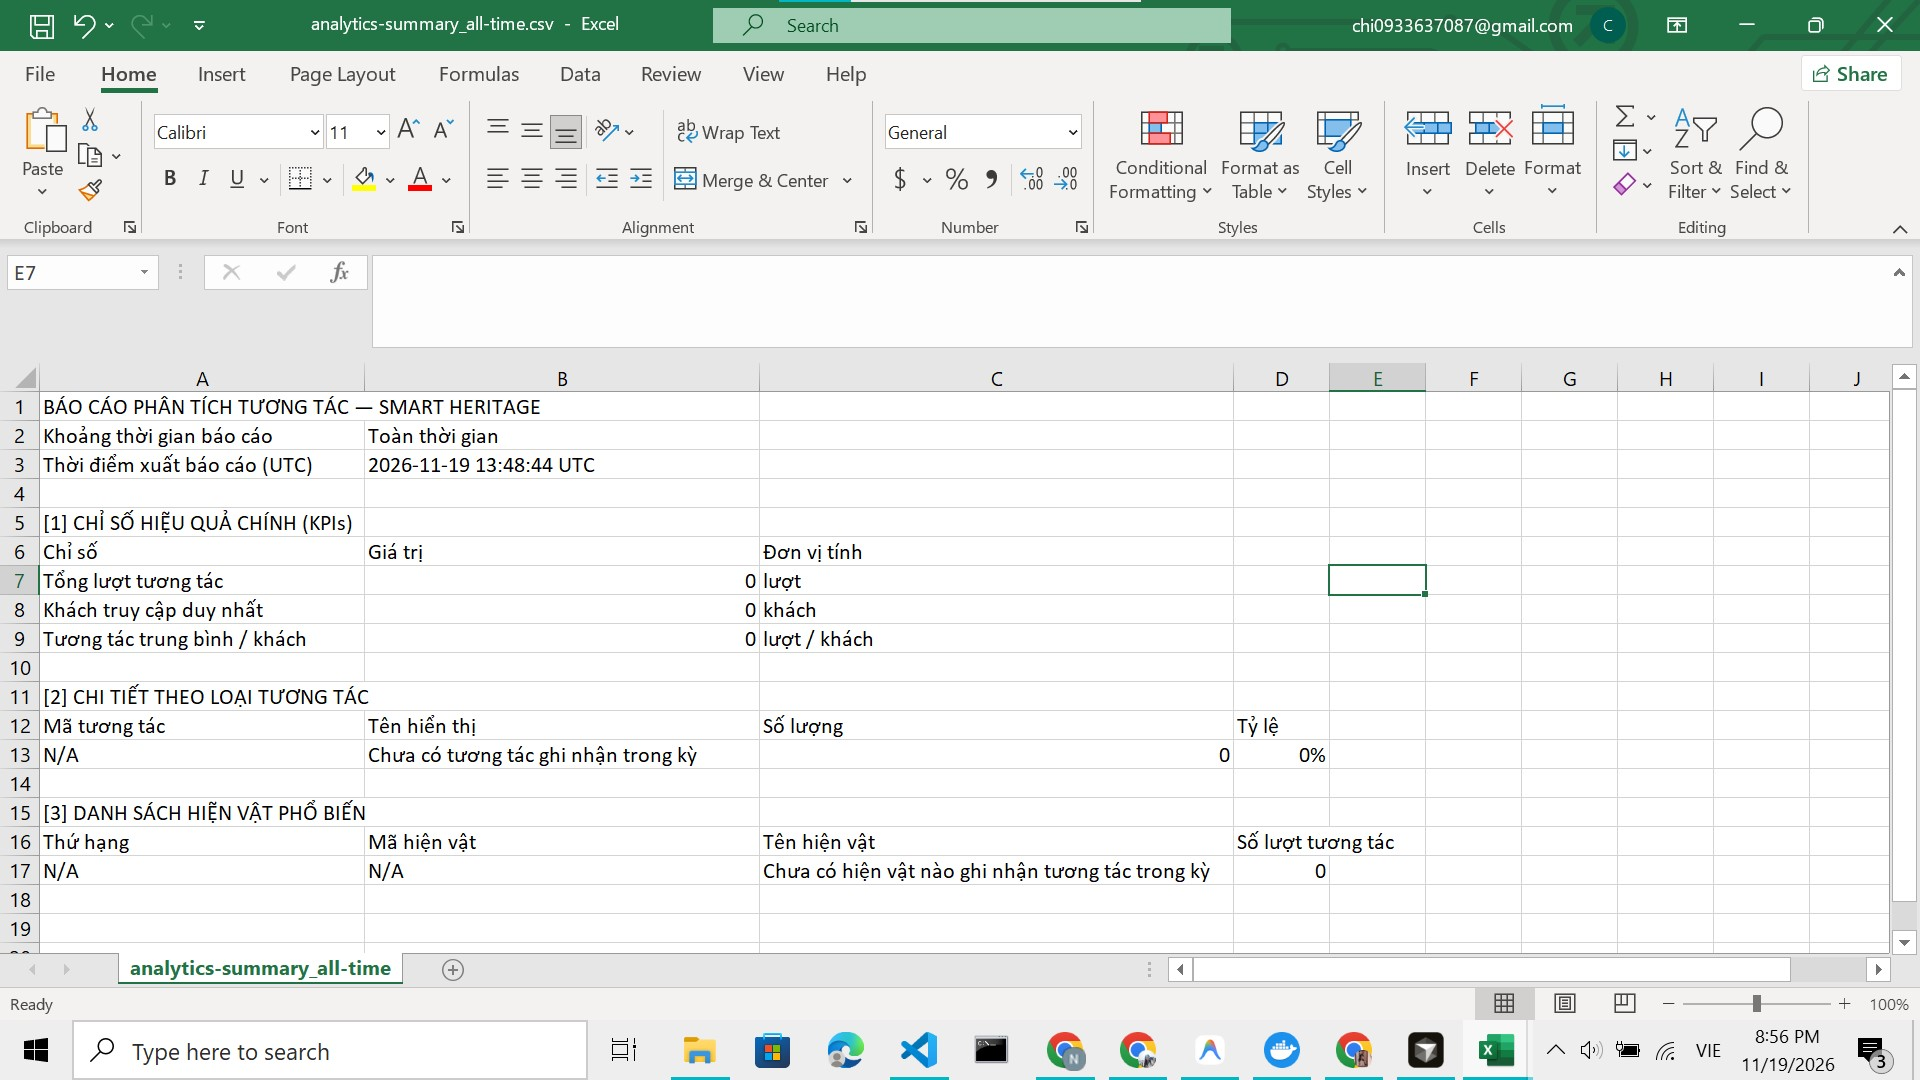
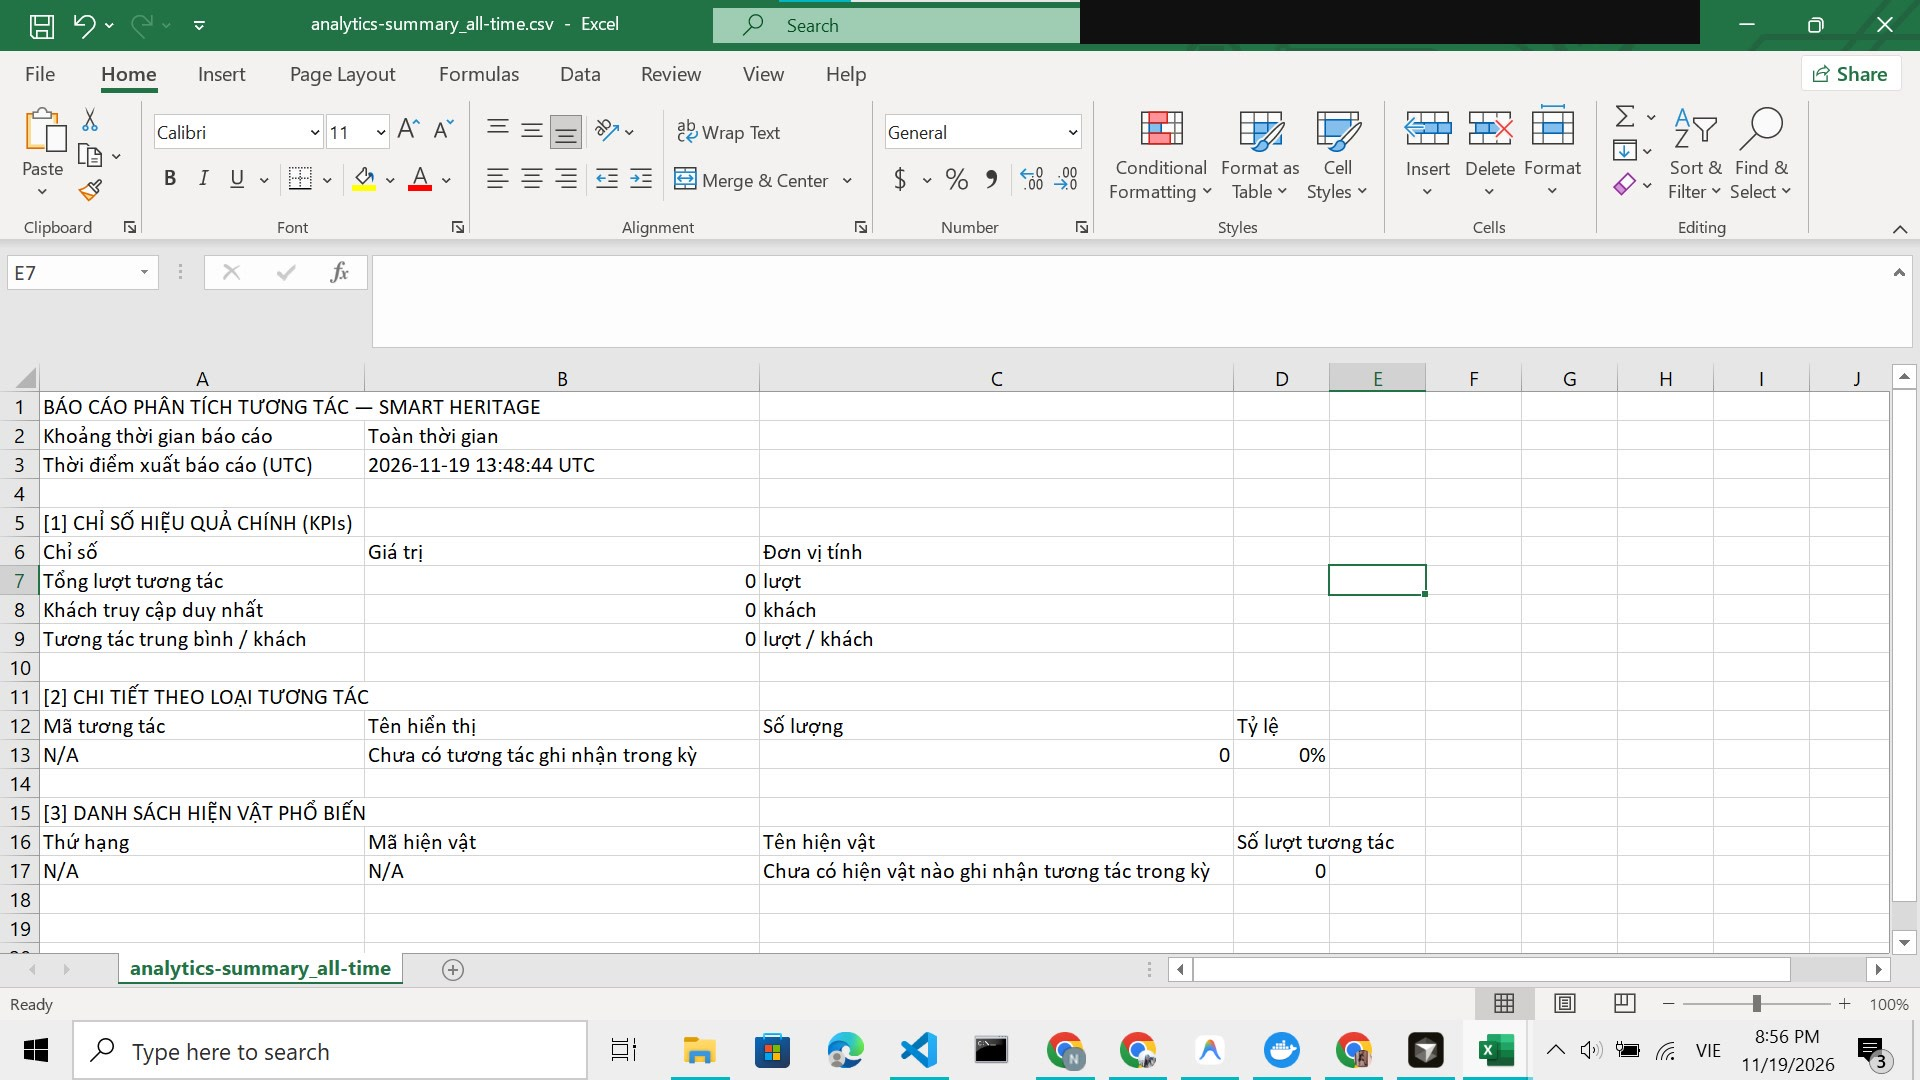
test(analytics): verify CSV Blob export acceptance
Assert BOM bytes, CRLF rows and download filename in the exported Blob. Correct LTJ-75 evidence to scope the Excel screenshot to All Time empty data and mark live/7-30-90-day manual checks as pending. Redact the account email from the screenshot.

Changed region(s): [[0.5625, 0.0, 0.9062, 0.0611]]

diff --git a/frontend/src/utils/__tests__/analyticsCsv.test.ts b/frontend/src/utils/__tests__/analyticsCsv.test.ts
@@ -165,6 +165,47 @@ describe('analyticsCsv utility', () => {
       vi.restoreAllMocks()
     })
 
+
+    it('writes UTF-8 BOM, CRLF rows and the download filename into the Blob', async () => {
+      let createdBlob: Blob | null = null
+      const anchors: HTMLAnchorElement[] = []
+      window.URL.createObjectURL = vi.fn((blob: Blob) => {
+        createdBlob = blob
+        return 'blob:http://localhost/bom-test'
+      })
+      window.URL.revokeObjectURL = vi.fn()
+
+      const originalAppend = document.body.appendChild.bind(document.body)
+      vi.spyOn(document.body, 'appendChild').mockImplementation((node) => {
+        if (node instanceof HTMLAnchorElement) anchors.push(node)
+        return originalAppend(node)
+      })
+      vi.spyOn(document.body, 'removeChild')
+
+      exportAnalyticsSummaryToCsv({
+        from: null,
+        to: null,
+        totalInteractions: 0,
+        uniqueVisitors: 0,
+        interactionTypes: [],
+        popularArtifacts: [],
+      })
+
+      expect(createdBlob).not.toBeNull()
+      const blob = createdBlob!
+      const bytes = new Uint8Array(await blob.arrayBuffer())
+      expect(Array.from(bytes.slice(0, 3))).toEqual([0xef, 0xbb, 0xbf])
+
+      const text = await blob.text()
+      expect(text).toContain('\r\n')
+      expect(text.replace(/\r\n/g, '')).not.toContain('\n')
+      expect(text).toContain('"N/A","Chưa có tương tác ghi nhận trong kỳ","0","0%"')
+
+      expect(anchors).toHaveLength(1)
+      expect(anchors[0].getAttribute('download')).toBe(
+        'analytics-summary_all-time.csv',
+      )
+    })
     it('creates object URL, appends anchor, clicks it, and revokes URL with UTF-8 BOM', () => {
       let createdBlob: Blob | null = null
       const mockCreateObjectURL = vi.fn((blob: Blob) => {

diff --git a/docs/logs/LTJ-75.md b/docs/logs/LTJ-75.md
@@ -5,19 +5,50 @@
 - **Branch:** `LTJ-75`
 - **Task:** S6-M4-03 — Analytics Dashboard & CSV Export Final Acceptance
 - **Sprint:** M4 — Sprint 6 (Final Integration, Acceptance & Release)
-- **Mục tiêu chính:** Xác minh Analytics Dashboard hiển thị đúng và CSV Export hoạt động chính xác với backend tích hợp thực tế: date range semantics, UTF-8 BOM, RFC 4180 escaping, formula injection mitigation, tên file đúng, và empty state.
+- **Mục tiêu:** Xác minh Analytics Dashboard và CSV Export ở các mặt: date-range semantics, UTF-8 BOM, RFC 4180 escaping, formula-injection mitigation, filename và empty state.
+- **Cập nhật audit:** Đã merge `origin/main` (`5989871`) vào branch bằng merge commit `56ff551`.
+
+---
+
+## Phạm vi evidence
+
+- **Automated tests:** kiểm chứng UI, request params, CSV string/Blob, filename và error handling.
+- **Manual screenshot:** một lần mở file `analytics-summary_all-time.csv` bằng Microsoft Excel với dữ liệu rỗng.
+- **Chưa có:** live data verification với interaction records thật, và chưa mở thủ công file CSV cho preset 7/30/90 ngày trong audit này.
+
+Screenshot đã được **redact email tài khoản** trước khi lưu vào repo.
 
 ---
 
 ## Kết quả kiểm thử tự động
 
+### Full frontend suite — 105/105 passed
+
 ```
 Test Files  15 passed (15)
-     Tests  104 passed (104)
-  Duration  19.09s
+     Tests  105 passed (105)
+  Duration  12.68s
 ```
 
-### analyticsCsv.test.ts — 13 tests passed
+Lệnh đã chạy:
+
+```bash
+cd frontend
+npm test -- --run
+npx tsc -b
+npm run lint
+npm run build
+git diff --check
+```
+
+- `npx tsc -b` → **0 errors**
+- `npm run lint` → **0 errors**
+- `npm run build` → **thành công**
+- `git diff --check` → **sạch**
+
+Ghi chú: jsdom in cảnh báo không fail `Not implemented: navigation to another Document`; không có test nào thất bại.
+
+### analyticsCsv.test.ts — 14 tests passed
 
 | Nhóm | Test case | Kết quả |
 |------|-----------|---------|
@@ -32,63 +63,97 @@ Test Files  15 passed (15)
 | `formatReportingPeriod` | All Time (null/null) → "Toàn thời gian" | ✅ |
 | `formatReportingPeriod` | invalid date string → fallback | ✅ |
 | `generateAnalyticsCsv` | Đủ 3 section, BEACON_TRIGGER, tiếng Việt | ✅ |
-| `generateAnalyticsCsv` | Empty data → N/A đúng cột, không crash | ✅ |
-| `exportAnalyticsSummaryToCsv` | Blob type `text/csv;charset=utf-8;`, download trigger | ✅ |
+| `generateAnalyticsCsv` | Empty data → `N/A` đúng cột, không crash | ✅ |
+| `exportAnalyticsSummaryToCsv` | Blob type, anchor click, revoke URL | ✅ |
+| `exportAnalyticsSummaryToCsv` | Blob thực tế có UTF-8 BOM bytes, CRLF, filename download | ✅ |
 
-### DashboardPage.test.tsx — 15 tests passed (liên quan export)
+### DashboardPage.test.tsx — 15 tests, trong đó 3 test trực tiếp cho Export
+
+12 test còn lại kiểm chứng Dashboard analytics:
+
+- Loading skeleton, KPI, interaction breakdown và popular artifacts.
+- Empty state khi mọi KPI bằng 0.
+- Network/server error + retry.
+- 403 Forbidden không hiện retry.
+- Preset 7/90 ngày và All Time.
+- Custom date validation: from > to, > 90 ngày, single-day, đúng 90 ngày, 91 ngày bị chặn.
+- Inclusive end day: `2026-11-01` → `2026-11-04` gửi `to=2026-11-05`.
+- BEACON_TRIGGER label.
+- Không duplicate request trong StrictMode.
+
+3 test trực tiếp cho Export:
 
 | Test case | Kết quả |
 |-----------|---------|
-| Export button disabled khi đang loading | ✅ |
-| Export không phát sinh thêm API request | ✅ |
+| Export button disabled khi loading, enabled khi có data | ✅ |
+| Export dùng summary hiện tại, không phát sinh thêm API request | ✅ |
 | Export error alert hiển thị và dismiss được | ✅ |
-| Date range validation: from > to, > 90 ngày | ✅ |
-| Inclusive end day: 2026-11-01 to 2026-11-04 → `to=2026-11-05` | ✅ |
-| Single-day range và exactly 90 ngày được chấp nhận | ✅ |
+
+Không có test component nào thực sự mở file CSV; phần Blob/filename được kiểm chứng ở `analyticsCsv.test.ts`.
 
 ---
 
-## Acceptance Criteria — Kết quả
+## Date range và filename — automated evidence
 
-### CSV Export — Verify thực tế
+Các giá trị dưới đây được kiểm chứng bằng unit test của `formatReportingPeriod`/`getAnalyticsCsvFilename` và request-param tests của Dashboard:
 
-| File export | Khoảng thời gian | Date range đúng | Tên file đúng | Tiếng Việt | Download |
-|---|---|---|---|---|---|
-| `analytics-summary_all-time.csv` | All Time | ✅ "Toàn thời gian" | ✅ | ✅ | ✅ |
-| `analytics-summary_2026-08-22_to_2026-11-19.csv` | 90 ngày | ✅ "2026-08-22 đến 2026-11-19 (UTC)" | ✅ | ✅ | ✅ |
-| `analytics-summary_2026-10-21_to_2026-11-19.csv` | 30 ngày | ✅ "2026-10-21 đến 2026-11-19 (UTC)" | ✅ | ✅ | ✅ |
-| `analytics-summary_2026-11-13_to_2026-11-19.csv` | 7 ngày | ✅ "2026-11-13 đến 2026-11-19 (UTC)" | ✅ | ✅ | ✅ |
+| Trường hợp | Automated date semantics | Automated filename | Mở file thủ công |
+|-----------|--------------------------|--------------------|------------------|
+| All Time | `null/null` → "Toàn thời gian" | `analytics-summary_all-time.csv` | ✅ Screenshot Excel |
+| Bounded range | Inclusive end day đúng theo contract `[from, to)` | `analytics-summary_<from>_to_<inclusive-end>.csv` | ❌ Chưa có evidence |
+| 7 ngày | Dashboard gửi đúng exclusive `to`, đủ 7 ngày UTC | Filename sinh theo cùng semantics | ❌ Chưa có evidence |
+| 30 ngày | Preset sử dụng cùng date-range logic | Filename sinh theo cùng semantics | ❌ Chưa có evidence |
+| 90 ngày | Chấp nhận đúng 90 ngày, chặn 91 ngày | Filename sinh theo cùng semantics | ❌ Chưa có evidence |
 
-### Checklist đầy đủ
+---
 
-- [x] Export button xuất hiện trên Dashboard
-- [x] Export sử dụng dữ liệu summary đã tải — không phát sinh API request trùng
-- [x] All Time → `from`/`to` absent, filename `analytics-summary_all-time.csv`
-- [x] Preset 7 ngày / 30 ngày / 90 ngày → date range đúng semantics UTC
-- [x] Tên file chứa date range inclusive đúng
-- [x] CSV mở được, tiếng Việt hiển thị đúng
-- [x] RFC 4180: CRLF line endings, dấu `"` được escape
-- [x] UTF-8 BOM (`\uFEFF`) có mặt → Excel Windows đọc được tiếng Việt
-- [x] Formula Injection mitigation: prefix `'` cho ô bắt đầu `=`, `+`, `-`, `@`
-- [x] Empty data → hiển thị `N/A` đúng cột, không crash
-- [x] Unknown interaction type → fallback giá trị gốc, không crash
-- [x] Export không expose personal information (chỉ aggregate data)
-- [x] 3 section đầy đủ: KPI, Interaction Breakdown, Popular Artifacts
-- [x] `BEACON_TRIGGER` → hiển thị "Kích hoạt Beacon"
+## Excel screenshot — All Time, empty data
 
-### Excel / LibreOffice — Tiếng Việt
+Screenshot: `docs/logs/LTJ-75-excel-screenshot.jpg`
 
-Screenshot verify: `docs/logs/LTJ-75-excel-screenshot.jpg`
+Đã xác minh trực quan:
 
-- File `analytics-summary_all-time.csv` mở trong Microsoft Excel
-- Tiếng Việt hiển thị đúng hoàn toàn: "BÁO CÁO PHÂN TÍCH TƯƠNG TÁC", "Khoảng thời gian báo cáo", "Toàn thời gian", "Tổng lượt tương tác", "Khách truy cập duy nhất", v.v.
-- UTF-8 BOM hoạt động đúng — không bị `????` hay lỗi encoding
-- Cấu trúc bảng căn chỉnh đúng cột
+- File mở trong Microsoft Excel với tên `analytics-summary_all-time.csv`.
+- Tiếng Việt hiển thị đúng: "BÁO CÁO PHÂN TÍCH TƯƠNG TÁC", "Khoảng thời gian báo cáo", "Toàn thời gian", "Tổng lượt tương tác", v.v.
+- Không có lỗi encoding `????`.
+- Cấu trúc 3 section và các cột căn đúng.
+- Empty state hiển thị `N/A`, "Chưa có tương tác ghi nhận trong kỳ", "Chưa có hiện vật nào ghi nhận tương tác trong kỳ".
 
-### Ghi chú về data
+Screenshot này **chỉ** chứng minh All Time + empty data; không dùng để tuyên bố đã verify thủ công các preset 7/30/90 ngày.
 
-> Database hiện tại chưa có interaction records (tất cả KPI = 0). CSV export hoạt động đúng với empty state — hiển thị `N/A` và thông báo phù hợp thay vì crash hay để trống bất thường.
-> KPI matching với dataset thực tế phụ thuộc M2 inject demo data — pending M2 demo dataset.
+---
+
+## Checklist acceptance
+
+### CSV Export
+
+- [x] Export button xuất hiện trên Dashboard.
+- [x] Export sử dụng summary đã tải, không phát sinh API request trùng.
+- [x] All Time → `from`/`to` absent, filename `analytics-summary_all-time.csv`.
+- [x] Bounded date range dùng UTC `[from, to)` và hiển thị inclusive end day.
+- [x] Filename chứa date range inclusive đúng.
+- [x] RFC 4180: CRLF line endings, dấu `"` được escape — có test trên CSV string và Blob thực tế.
+- [x] UTF-8 BOM (`EF BB BF`) có trong Blob — có test byte-level.
+- [x] Formula injection mitigation: prefix `'` cho ô bắt đầu `=`, `+`, `-`, `@` (kể cả leading whitespace/tab/CR).
+- [x] Empty data → `N/A` đúng cột, không crash.
+- [x] Unknown interaction type → fallback giá trị gốc, không crash.
+- [x] Export chỉ chứa aggregate data, không có personal information.
+- [x] Đủ 3 section: KPI, Interaction Breakdown, Popular Artifacts.
+- [x] `BEACON_TRIGGER` → "Kích hoạt Beacon".
+- [x] Dashboard hiển thị đúng loading/empty/error/403 states.
+- [x] Custom date validation: from > to, > 90 ngày, single-day, exactly 90 ngày.
+
+### Điều kiện live data còn lại
+
+- [ ] KPI khớp với interaction records thật trong database — **pending M2 demo dataset**.
+- [ ] Export file có data thật (không chỉ empty state) — **pending M2 demo dataset**.
+- [ ] Mở thủ công CSV cho preset 7/30/90 ngày — **chưa thực hiện**.
+
+---
+
+## Ghi chú về data
+
+Database hiện tại chưa có interaction records nên screenshot có tất cả KPI = 0 và empty state. CSV export xử lý đúng trường hợp này; việc so khớp KPI với dataset thực tế phụ thuộc M2 demo data.
 
 ---
 
@@ -98,16 +163,16 @@ Screenshot verify: `docs/logs/LTJ-75-excel-screenshot.jpg`
 |------|---------|
 | `frontend/src/utils/analyticsCsv.ts` | CSV generation, escaping, filename, download |
 | `frontend/src/pages/DashboardPage.tsx` | Dashboard UI + Export button |
-| `frontend/src/utils/__tests__/analyticsCsv.test.ts` | 13 unit tests |
-| `frontend/src/pages/__tests__/DashboardPage.test.tsx` | 15 integration tests |
+| `frontend/src/utils/__tests__/analyticsCsv.test.ts` | 14 unit tests |
+| `frontend/src/pages/__tests__/DashboardPage.test.tsx` | 15 tests, 3 trực tiếp cho Export |
 | `frontend/src/services/analyticsService.ts` | `GET /api/analytics/interactions/summary` |
+| `docs/logs/LTJ-75-excel-screenshot.jpg` | Manual evidence: All Time + empty state, email đã redact |
 
 ---
 
 ## Kết quả đạt được
 
-- CSV export hoạt động đúng với tất cả preset date range và All Time.
-- Tiếng Việt hiển thị đúng nhờ UTF-8 BOM.
-- Formula Injection được mitigate đúng chuẩn OWASP.
-- Empty/unknown data không gây crash.
-- Task S6-M4-03 đạt acceptance criteria.
+- **105/105 frontend tests passed**; TypeScript, lint và production build sạch.
+- CSV logic có automated evidence cho escaping, BOM, CRLF, filename, date semantics và error handling.
+- Có manual evidence cho All Time + empty data trong Excel.
+- Chưa tuyên bố live-data acceptance hoặc đã mở thủ công 7/30/90 ngày khi chưa có evidence tương ứng.
